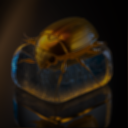
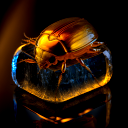
usm, blur, contrast

diff --git a/assignments/Studienleistung 1/filtertool.py b/assignments/Studienleistung 1/filtertool.py
@@ -1,43 +1,104 @@
 from PIL import Image
+import math
 i_input = Image.open("input.png")
+
+# brightness of an RGB tuple, factors taken from
+# https://de.mathworks.com/help/matlab/ref/rgb2gray.html
+B = lambda r,g,b: 0.298936021293775 * r + 0.587043074451121 * g + 114020904255103 * b
+# identity
+I = [[1]]
+# I tried figuring out a similar formula myself but it wasn't perfect so I looked it up
+# Source: https://en.wikipedia.org/wiki/Gaussian_blur
+blur = lambda x,y,s: math.exp(-(x*x+y*y)/(2*s*s))
 
 def apply_kernel(img: Image, kernel: list) -> Image:
     img_applied = img.copy()
-    kernel_size = (len(kernel)-1)//2
+    kernel_size = (validate_kernel(kernel)-1)//2
     num_channels = len(img.getpixel((0,0)))
-
-    # get normaliser for kernel
-    normaliser = 0
-    for row in kernel:
-        for factor in row:
-            normaliser += factor
 
     # iterate over image pixels
     for x in range(img_applied.width):
         for y in range(img_applied.height):
-
             # apply kernel on pixel
             weighted_sum = tuple(0 for _ in range(num_channels))
             for xoff in range(-kernel_size, kernel_size+1):
                 for yoff in range(-kernel_size, kernel_size+1):
+                    factor = kernel[xoff][yoff]
                     abs_x, abs_y = x+xoff, y+yoff
-                    # bad solution, but it works
-                    if abs_x not in range(img.width):
-                        abs_x = 0
-                    if abs_y not in range(img.height):
-                        abs_y = 0
-                    value = img.getpixel((abs_x, abs_y))
+                    value = img.getpixel((x,y))
+                    if 0 <= abs_x < img.width and 0 <= abs_y < img.height:
+                        value = img.getpixel((abs_x,abs_y))
                     weight = kernel[xoff+kernel_size][yoff+kernel_size]
                     # handle unknown amount of color channels
                     weighted_value = tuple(channel * factor for channel in value)
                     # add channels element-wise to weighted_sum (thanks to chat-gpt for telling me about zip())
                     weighted_sum = tuple(a + b for a,b in zip(weighted_sum, weighted_value))
-            
-            # kernel probably wasn't normalised
-            new_value = tuple(channel//normaliser for channel in weighted_sum)
-            img_applied.putpixel((x,y), new_value)
+            weighted_sum = tuple(int(channel) for channel in weighted_sum)
+            img_applied.putpixel((x,y), weighted_sum)
     return img_applied
 
-test_kernel = [[1,2,1],[2,4,2],[1,2,1]]
+def scalar_mult(kernel,scalar):
+    k1 = list()
+    for row in kernel:
+        row1 = list()
+        for value in row:
+            row1.append(value*scalar)
+        k1.append(row1)
+    return k1
 
-apply_kernel(i_input, test_kernel).save("output.png")
+def kernel_sum(kernel:list) -> float:
+    sum = 0.0
+    for row in kernel:
+        for val in row:
+            sum += val
+    return sum
+
+# Assert that the kernel is an odd square and return its width
+def validate_kernel(kernel: list) -> int:
+    len_k = len(kernel)
+    assert len_k-1 >= 0, f"size {len_k} is too small for a kernel"
+    assert len_k%2 == 1, f"please only use odd kernel sizes, got: {len_k}"
+    for row in kernel:
+        len_r = len(row)
+        assert len_r == len_k, f"this kernel row seems deformed: {row}, expected a row of length {len_k}"
+    return len_k
+
+def generate_blur(fn, radius: int, s: float) -> list:
+    size = 2*radius
+    middle = radius
+    normaliser = 2*math.pi*s*s
+    kernel = list()
+    for x in range(size+1):
+        row = list()
+        for y in range(size+1):
+            val = fn(x-middle,y-middle,s)
+            row.append(val)
+        kernel.append(row)
+    kernel = [[value/normaliser for value in row] for row in kernel]
+    return kernel
+
+# I think this should generate an unsharpening mask for a given blur
+# Source: https://en.wikipedia.org/wiki/Unsharp_masking
+def convert_to_usm(blur: list, amount: float):
+    k1 = scalar_mult(blur, -amount)
+    leng = validate_kernel(k1)
+    k1[leng//2][leng//2] += amount+1
+    return k1
+
+def contrast(img: Image, factor):
+    out = img.copy()
+    w,h = img.size
+    def contrast_on_pixel(value):
+        return tuple(max(0, min(
+            int(((channel / 255.0 - 0.5) * factor + 0.5) * 255.0),
+            255)) for channel in value)
+
+    for x in range(w):
+        for y in range(h):
+            value = img.getpixel((x,y))
+            out.putpixel((x,y),contrast_on_pixel(value))
+    return out
+
+blur_kernel = generate_blur(blur, 3, 1)
+usm1 = convert_to_usm(blur_kernel, 0.5)
+contrast(i_input, 1.5).save("output.png")
